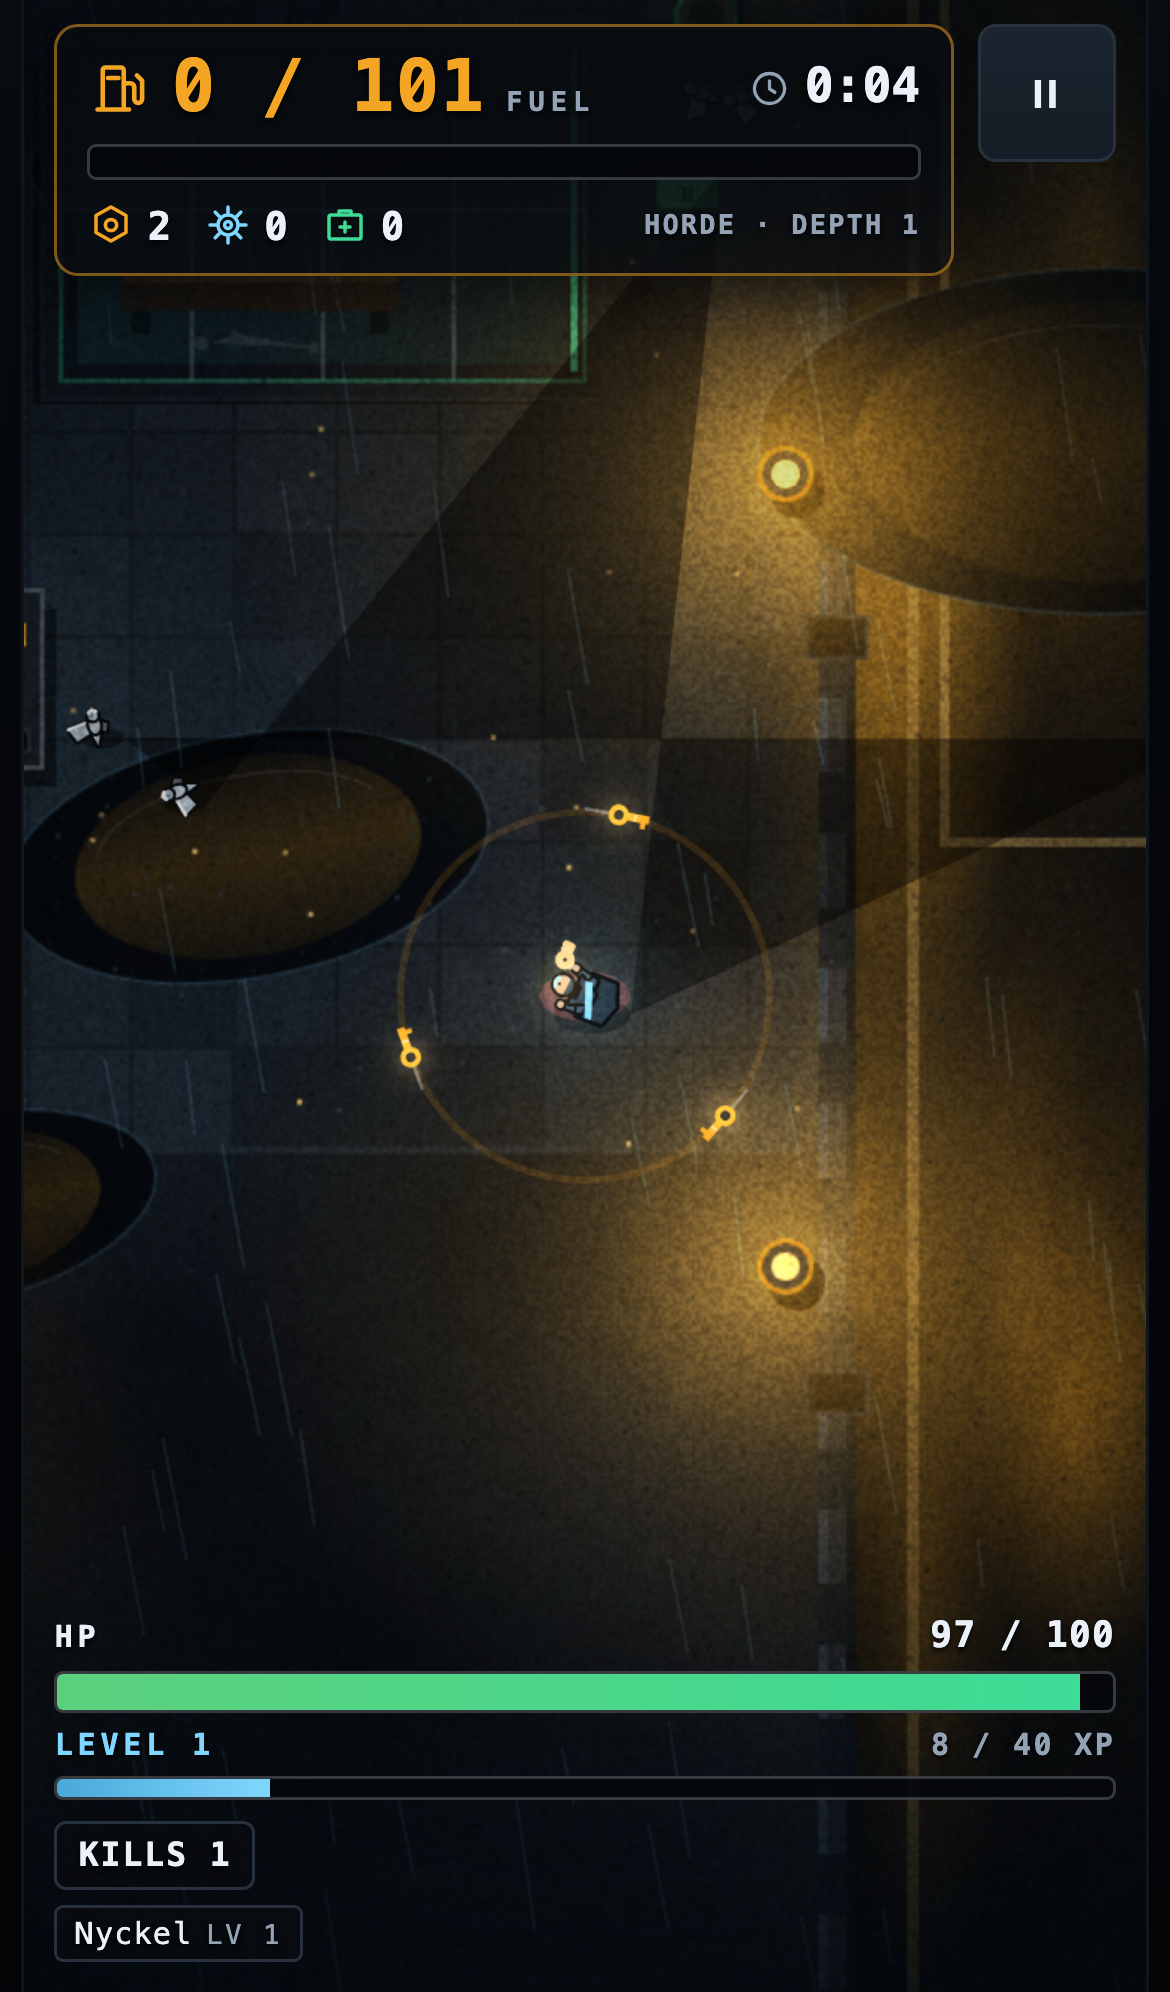
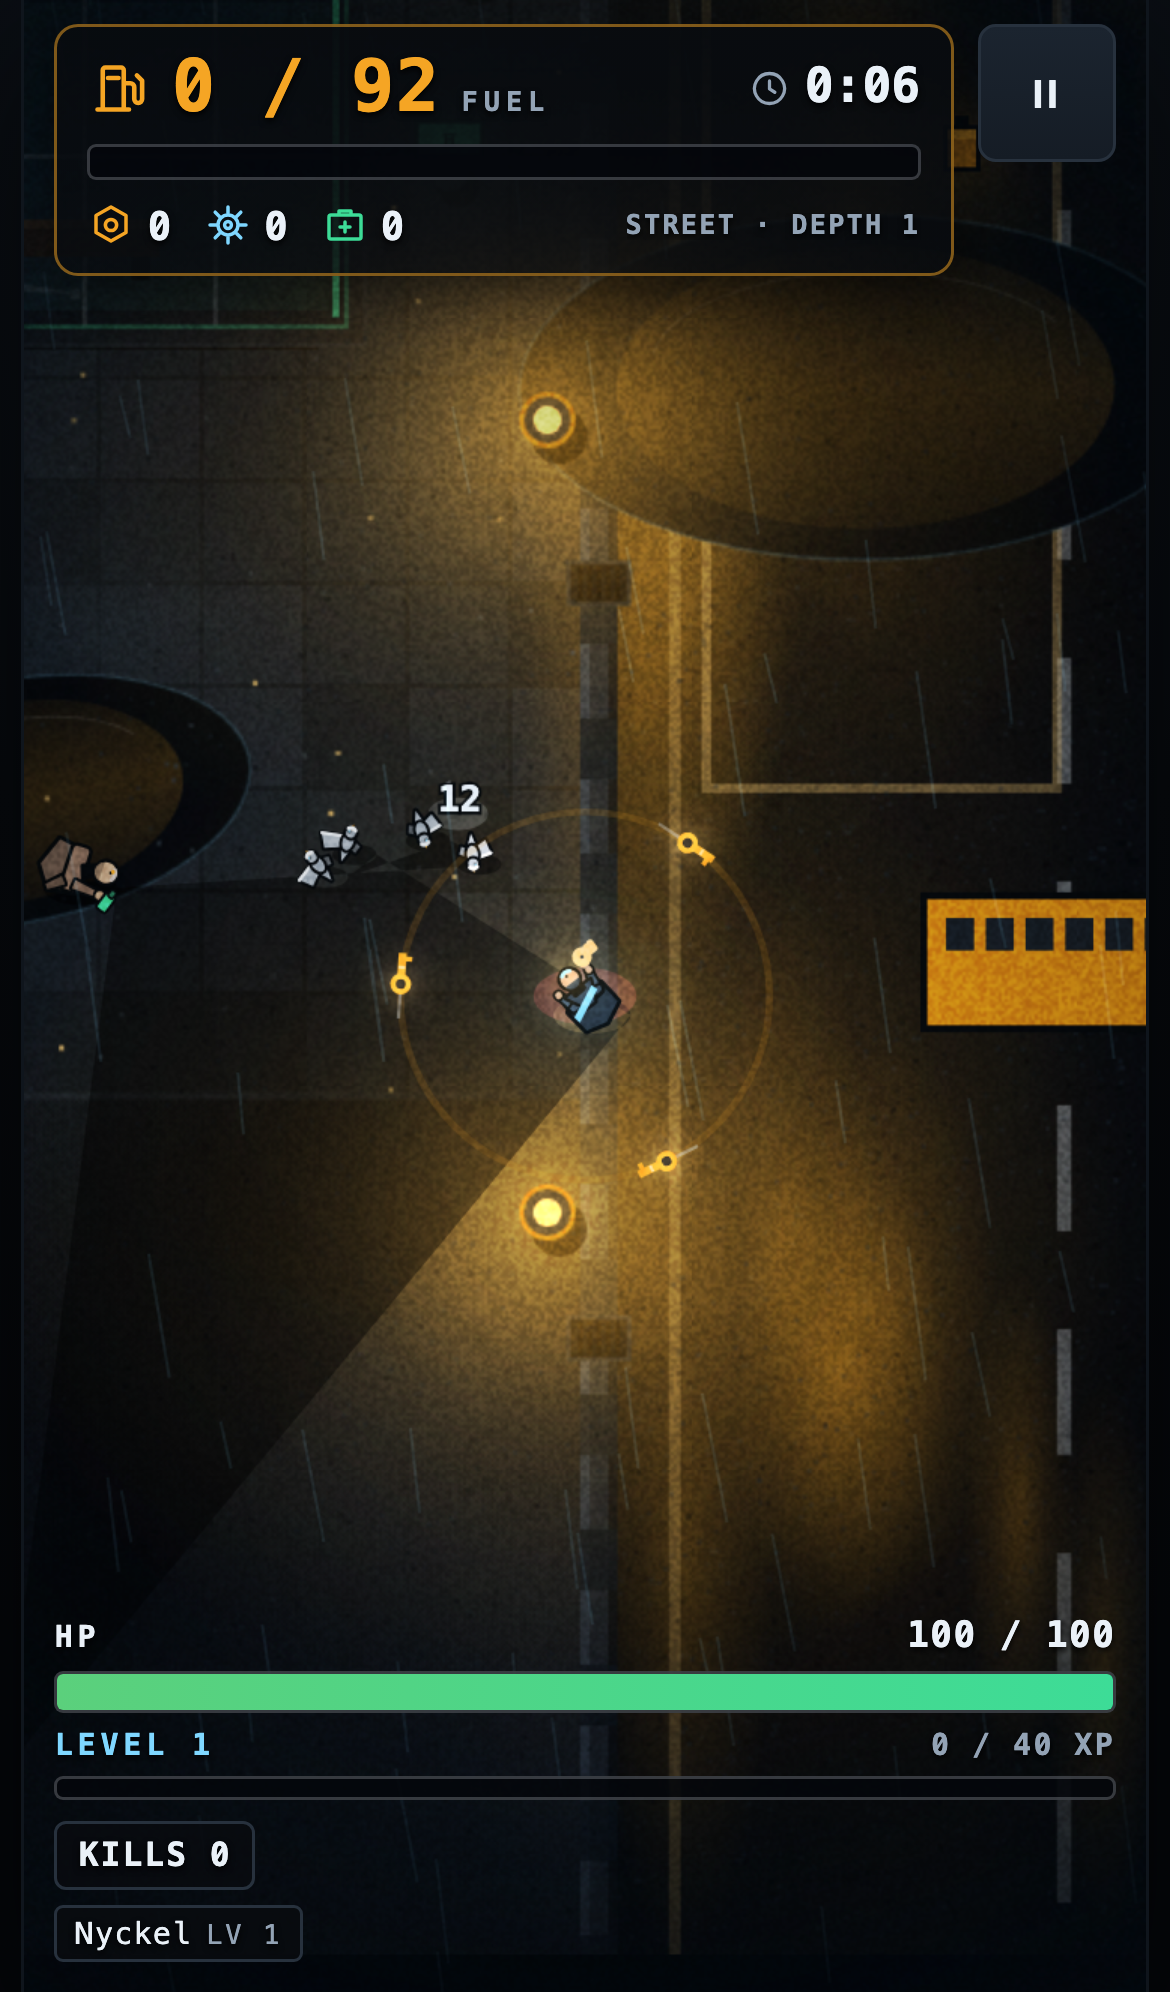
feat: playable route loop UI, fuel HUD, summaries (#16)

diff --git a/src/ui/hud.ts b/src/ui/hud.ts
@@ -33,7 +33,7 @@ export interface HudDeps {
 }
 
 /** Screen-space inset (px) the bus arrow keeps from the HUD panels at the top and bottom. */
-const ARROW_INSET = { x: 34, top: 150, bottom: 190 } as const;
+const ARROW_INSET = { x: 34, top: 200, bottom: 150 } as const;
 
 export function mountHud(deps: HudDeps): Hud {
   const root = el('div', 'hud');

diff --git a/specs/tickets/016-flow/notes-w16-flow.md b/specs/tickets/016-flow/notes-w16-flow.md
@@ -1,0 +1,42 @@
+# #16 playable route loop: worker notes (w16-flow)
+
+Branch `totto/16-flow`, worktree `/Users/vasthavm/Code/Worktrees-dsf/16-flow`. Based on `totto/v2` 04c16e7, then merged `totto/v2` 4e769a9 (#14, #15; save v4) in `4081fb3`.
+
+## What changed
+- `src/flow.ts` (new, pure, unit tested): `mapConfigFor` (uses #12's `fuelQuotaFor` as base quota; boss stop plays as `stop: 'horde'`), `stopInSegment`, `addMaterials`, `elapsedLabel`.
+- `src/game.ts` (flow only): `startMap(choice)` replaces `startRun`; phases `route` added; the map result is settled into route + bank through `applyMapResult` **when the summary opens** (a killed iOS PWA keeps the haul and the fall-back); a revive restores the pre-settle route/bank; CONTINUE and "abandon map" go to the route screen; `meetQuota()` debug hook. Runs no longer pay Biljetter (Växel is gone); counters and contracts still update via `applyRunOutcome` with a zero payout.
+- `src/main.ts`: START -> route screen; safe stops resolve on the route screen (`resolveSafeStop`, flash strip); debug `startRun()` skips the route screen (first non-safe stop); English toasts.
+- `src/ui/route.ts` (new): route screen. `src/ui/icons.ts` (new): stroke icons, material chips, stop copy. `src/ui/flow.css` (new): all new styling, so `style.css` is untouched (some old rules are now dead).
+- `src/ui/hud.ts`: fuel gauge panel (current / quota), elapsed timer m:ss, 3 material counters, persistent "All aboard: get to the bus" strip, DOM arrow to the bus when off screen. No Växel, no 03:00 clock. English throughout incl. the pause sheet.
+- `src/ui/summary.ts`: extracted (fuel, gained materials, kills, time) / died (lost materials, "Back to stop N"), revive offer on death, **double materials** on extraction (same `double_fares` placement, cap and gate), CONTINUE.
+- `src/ui/menu.ts`: night selector gone, loadout row stays, the Biljetter chip is three material chips, a "Your route" card (stop N / 10 line) fills the space. All menu copy is English, title ZOMBUS.
+- `src/monetize/catalog.ts`: only revive and `double_fares` title/reward strings (ids unchanged).
+- `src/render/index.ts`: removed the `drawGoalArrow` call (and import): #12's canvas arrow broke the one-DOM-HUD rule. The dead function is still in `render/objective.ts`.
+- `src/debug.ts`: `meetQuota`, `profile().route`, `profile().routeSeed`.
+- Tests: `tests/flow.test.ts` (7), `tests/e2e/route.spec.ts` (6), existing specs updated to the new flow.
+
+## Design calls (check these)
+- Route screen is a bus-line diagram (10 stops, checkpoint flag at the start, crown at the boss) over 2-4 full-width stop cards (icon tile, name, blurb, reward chip, 3 danger pips coloured green/amber/red). One tap plays the stop.
+- "Stop N / 10" is segment-relative; "Depth" is absolute. Death text reads "Back to stop 1" plus "Checkpoint at depth 11".
+- The double-materials offer only shows on extraction: a death loses the haul, so there is nothing to double.
+- Boss stop is a lone card labelled "BOSS (coming soon)" and plays as a horde with the boss row's quota/density/material numbers.
+- analytics.ts event shapes are unchanged (`night` carries the depth).
+
+## AC results
+- [x] Game flow: START -> route screen; stop -> `MapConfig` via `buildMapConfig` with `fuelQuotaFor`; `MapResult` through `applyMapResult`; extraction -> route one stop further; death -> revive offer (gated by #9, unchanged) then checkpoint; boss plays as horde with the label; safe stops resolve on the route screen. Evidence: `route.spec.ts` tests 1, 3, 4, 5, 6 pass (chromium).
+- [x] Route screen: "Stop 1 / 10", depth, checkpoint flag, 2-4 cards with icon + name + pips + reward chip, material totals, no scrolling at 375x667 (asserted: every card inside the viewport, `.route__options` not scrollable). `screenshots/route-375x667.png`, `route-deep-375x667.png`, `route-safe-*.png`, `route-boss-375x667.png`.
+- [x] Map HUD: fuel gauge, goal strip, material counter, elapsed timer. `screenshots/hud-375x667.png`. **Arrow:** the test passes (arrow on screen, inside the viewport), but I moved the arrow's top inset after the screenshot showed it touching the goal strip; that change is not browser-verified yet (see risks).
+- [x] Summaries: extracted and died, both at 375x667 (`summary-extracted-375x667.png`, `summary-died-375x667.png`). Double materials banks exactly one more copy (asserted in `route.spec.ts` and `money.spec.ts`).
+- [x] Menu: night picker gone, loadout row kept, materials chips (`menu.spec.ts` updated, passes).
+- [x] E2E: `route.spec.ts` covers start -> route -> stop -> quota -> bus -> summary -> route at stop 2, death -> checkpoint (from depth 14, checkpoint 10 -> depth 11), safe stop, boss label, revive undoing the fall-back. money, adgate, menu, map, game specs pass on chromium (run 2, before the arrow-inset tweak): 27/27 for those files.
+- [ ] `npm test`: 16 files, 169 tests pass. `npm run build`: green.
+- [ ] Full e2e: chromium update.spec had 4 failures from the old Swedish label `INSTÄLLNINGAR` in its settings helper; fixed in `1a`-commit "test: update.spec opens settings by its English label", **not re-run** (Totto stopped e2e for the audio issue). WebKit update.spec: same cause, not re-run.
+- [ ] `npm run build:docker-check`: **blocked**, the Docker daemon is not running on this machine (`failed to connect to the docker API at unix:///Users/vasthavm/.docker/run/docker.sock`). Needs Docker started, then re-run.
+
+## Open risks
+- Needs one more e2e pass once Totto says go: `PW_PORT=4188 npx playwright test` (chromium + webkit), especially `route.spec.ts` for the arrow inset and `update.spec.ts` for the label fix. Then regenerate screenshots.
+- Dead code left on purpose: `drawGoalArrow` in `render/objective.ts` (#17), old night/wallet/HUD CSS in `style.css`.
+- Menu loadout names/descriptions are still Swedish: they come from `sim/content.ts` (#17). Shop, crate, contracts, settings, level-up, ad overlay and the update banner copy are also still Swedish (not my files). update.spec still matches the Swedish banner ("Ny version klar", /uppdatera/).
+- Safe-stop flash strip auto-fades after about 4s; it is not persisted.
+- `profile.nightUnlocked/bestNight` still update on extraction (harmless, unused by the route).
+- Interstitial hook runs only after an extracted map (`INTERSTITIALS_ENABLED` is still false).
